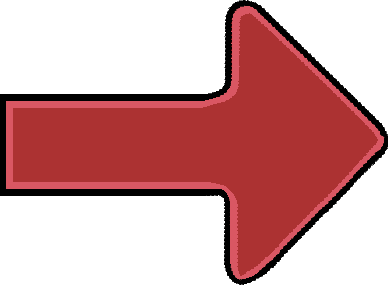
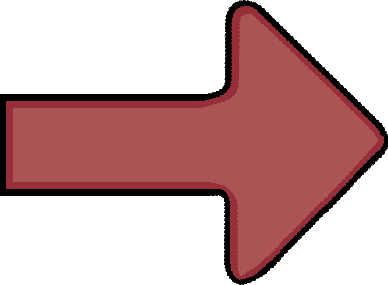
予測線を黄色に

diff --git a/BlockManager.cpp b/BlockManager.cpp
@@ -1230,8 +1230,8 @@ void BlockManager::DrawTurnArrow()
 		cameraM->usingCamera = cameraM->gameTurnCamera.get();
 		Vec2 posNum = Vec3toVec2(axis_pos_, cameraM->usingCamera->viewMat.matView, cameraM->usingCamera->projectionMat.matProjection);
 
-		//predictBlockM->DrawArrowRight(cameraM->usingCamera, Vec3(posNum.x + 100, posNum.y + 150, 0.0f), 0.3f, XMFLOAT4(1.0f, 1.0f, 1.0f, 1.0f),true);
-		//predictBlockM->DrawArrowLeft(cameraM->usingCamera, Vec3(posNum.x - 100, posNum.y + 150, 0.0f), 0.3f, XMFLOAT4(1.0f, 1.0f, 1.0f, 1.0f),true);
+		predictBlockM->DrawArrowRight(cameraM->usingCamera, Vec3(posNum.x + 100, posNum.y + 150, 0.0f), 0.3f, XMFLOAT4(1.0f, 1.0f, 1.0f, 1.0f),true);
+		predictBlockM->DrawArrowLeft(cameraM->usingCamera, Vec3(posNum.x - 100, posNum.y + 150, 0.0f), 0.3f, XMFLOAT4(1.0f, 1.0f, 1.0f, 1.0f),true);
 	}
 }
 

diff --git a/PredictBlock.cpp b/PredictBlock.cpp
@@ -22,11 +22,11 @@ void PredictBlock::Draw(Camera* camera)
 	float color = fabsf(sinf(count * 0.05f)) * 0.7f + 0.2f;
 	if (isRight)
 	{
-		obj.DrawModel(&worldTransform_, &camera->viewMat, &camera->projectionMat, model, { 0.6f,0.1f,0.1f,color });
+		obj.DrawModel(&worldTransform_, &camera->viewMat, &camera->projectionMat, model, { 0.8f,0.8f,0.1f,color });
 	}
 	else
 	{
-		obj.DrawModel(&worldTransform_, &camera->viewMat, &camera->projectionMat, model, { 0.5f,0.5f,0.1f,color-0.1f });
+		obj.DrawModel(&worldTransform_, &camera->viewMat, &camera->projectionMat, model, { 0.8f,0.8f,0.1f,color-0.1f });
 	}
 }
 
